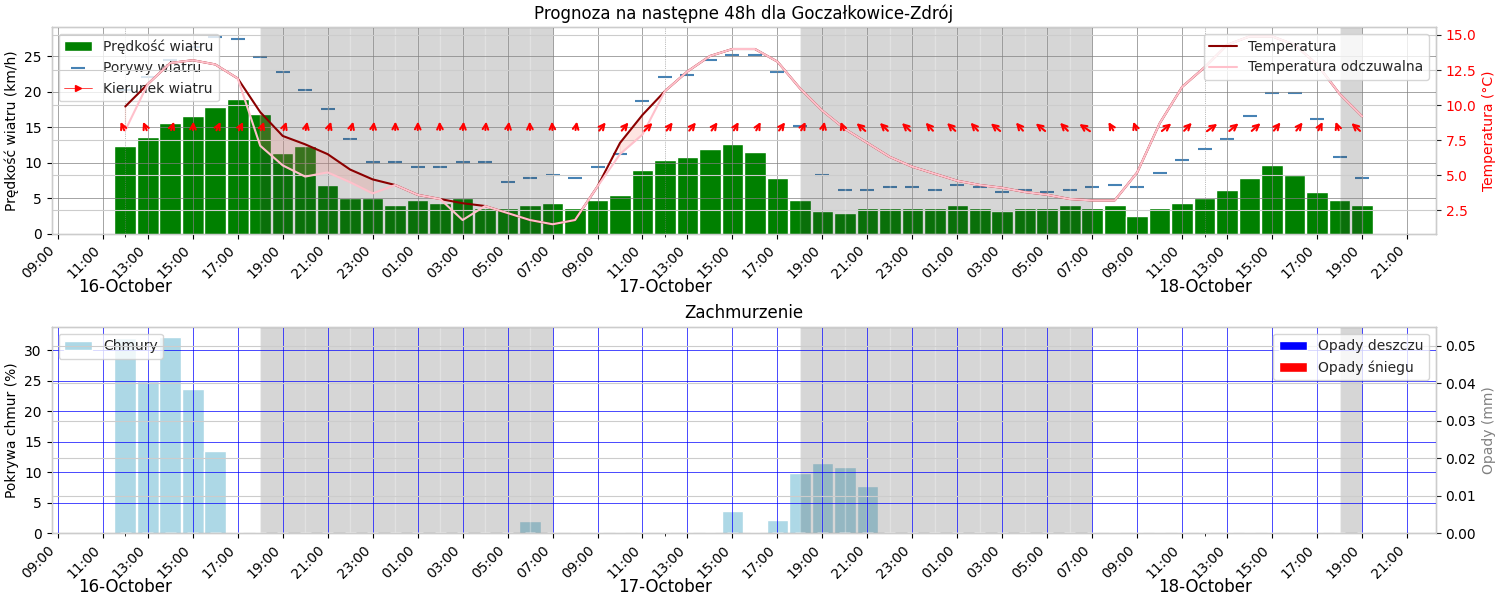
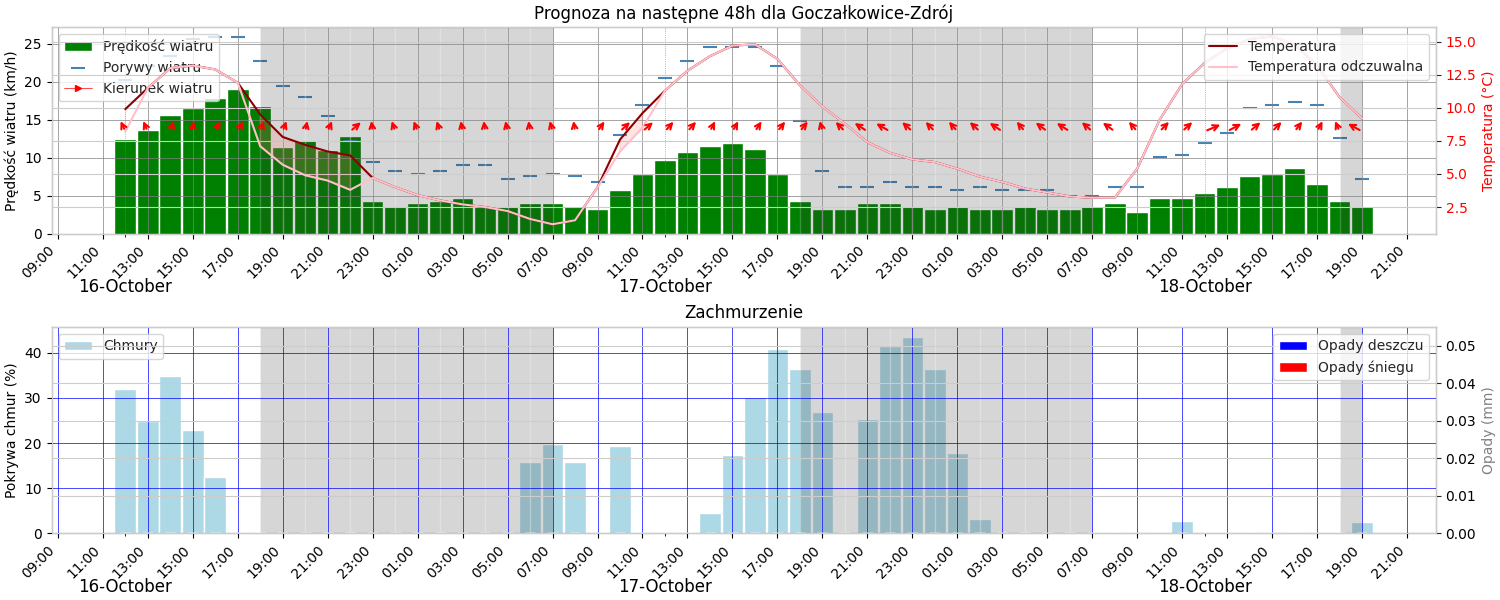
deploy: 68d5a0d69833622e7eccdf51667ddf306033782e

diff --git a/index.html b/index.html
@@ -10,7 +10,7 @@
 <body>
     <h1>Wykres Pogody dla Surferów</h1>
     <!-- Dodano znacznik czasowy (timestamp) do URL obrazka -->
-    <img src="weather_plot2.png?time=1729103521" alt="Wykres Pogody dla Surferów"> 
+    <img src="weather_plot2.png?time=1729110368" alt="Wykres Pogody dla Surferów"> 
     <canvas id="weatherChart" width="400" height="200"></canvas> <!-- Canvas dla wykresu -->
     <script src="script.js"></script> <!-- bez website/ -->
 </body>
